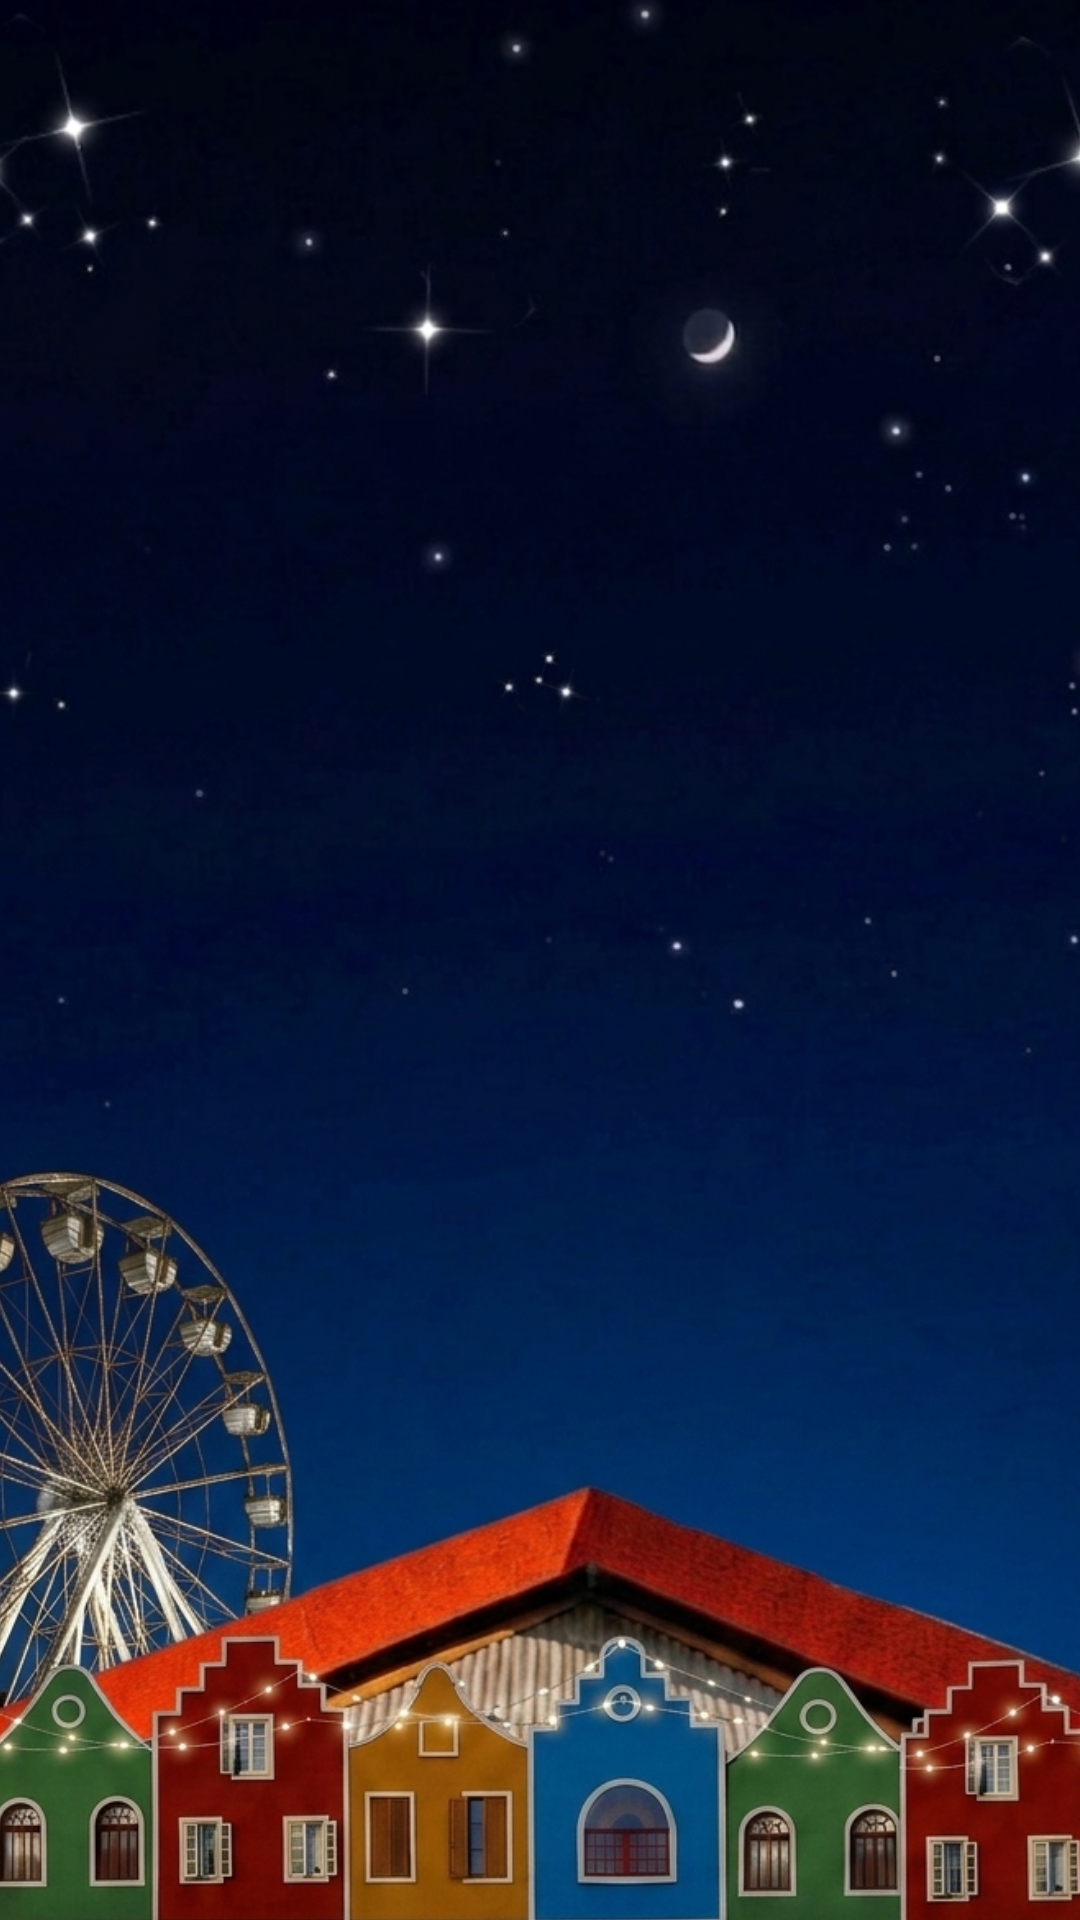
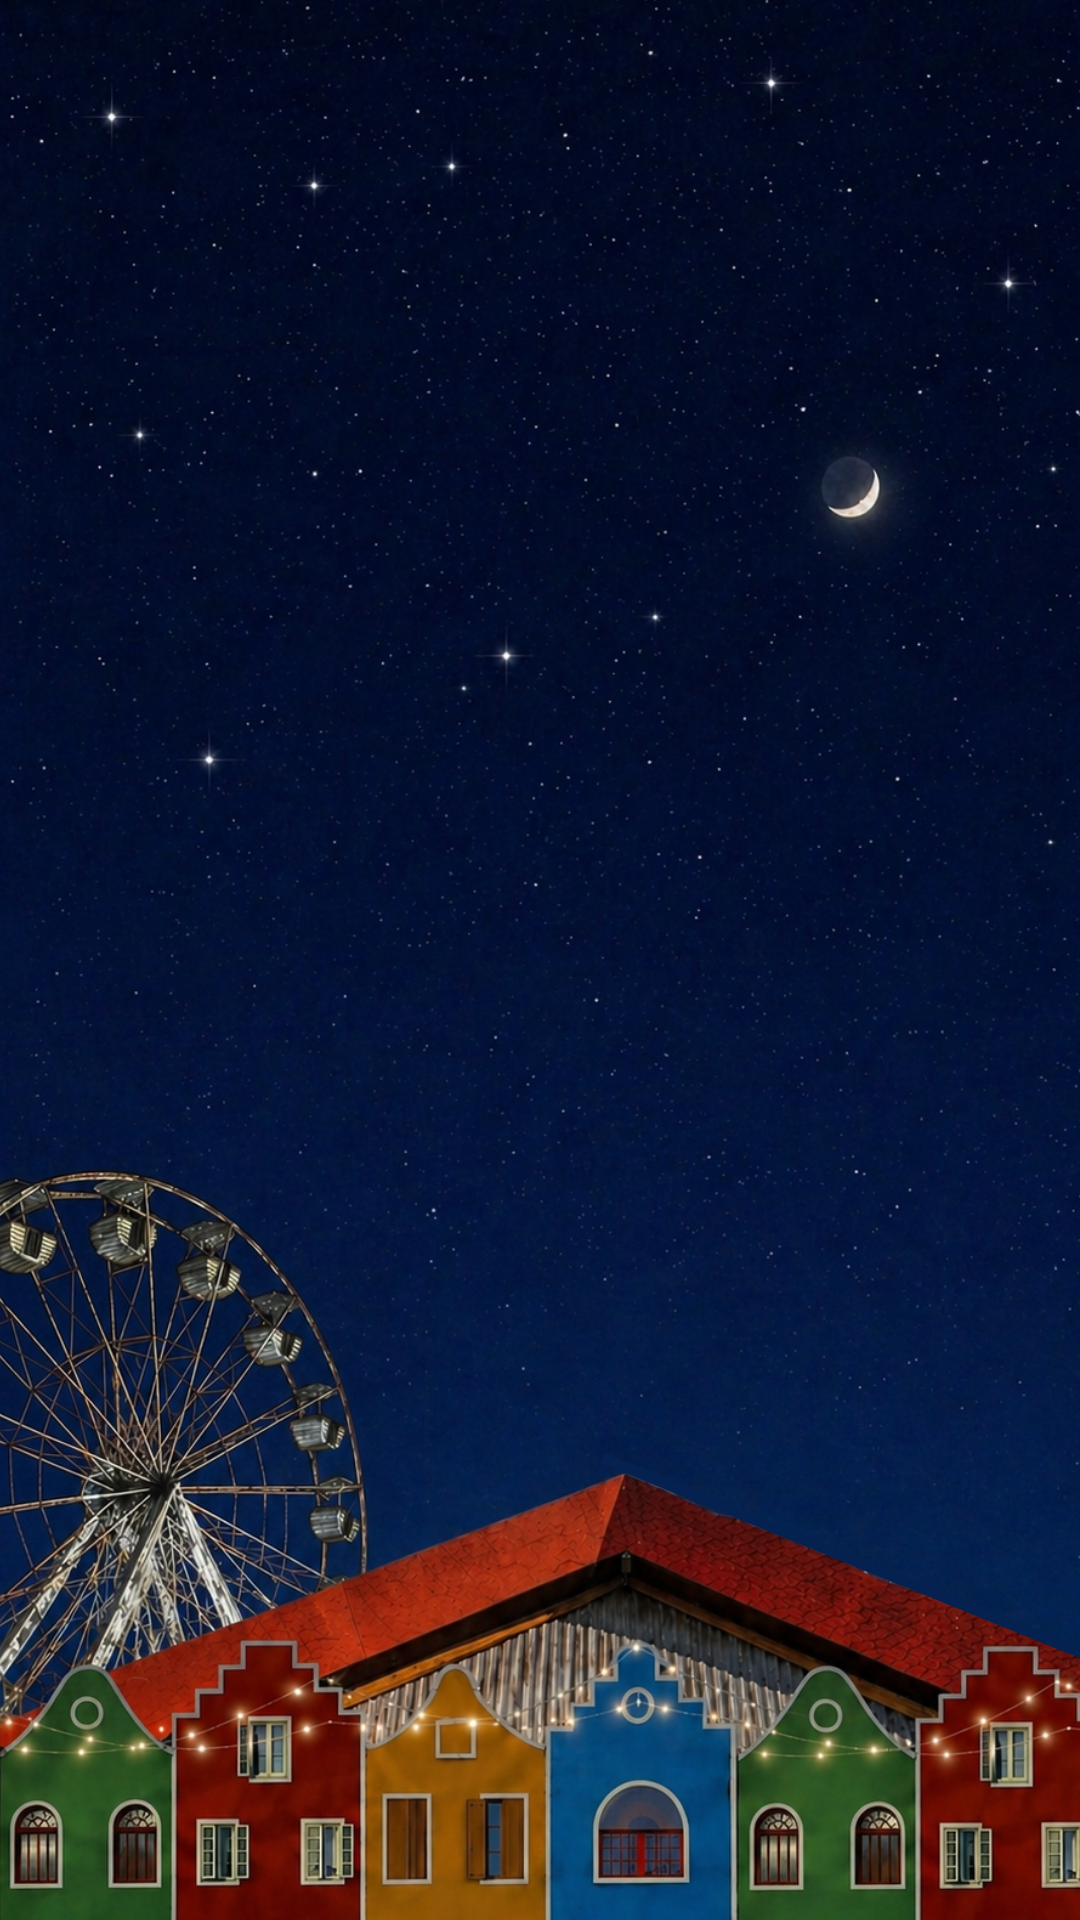
intro stories

diff --git a/frontend/versao-mobile/css/Pagina-Retrospectiva/stories/css/intro.css b/frontend/versao-mobile/css/Pagina-Retrospectiva/stories/css/intro.css
@@ -1,9 +1,9 @@
 
 .bg-intro {
-  background-image: url('./imagens/testeintro1.png');
+  background-image: url('./imagens/intro.png');
   background-size: cover;
   background-repeat: no-repeat;
-  background-position: center -40px;
+  background-position: center -20px;
 
 }
 
